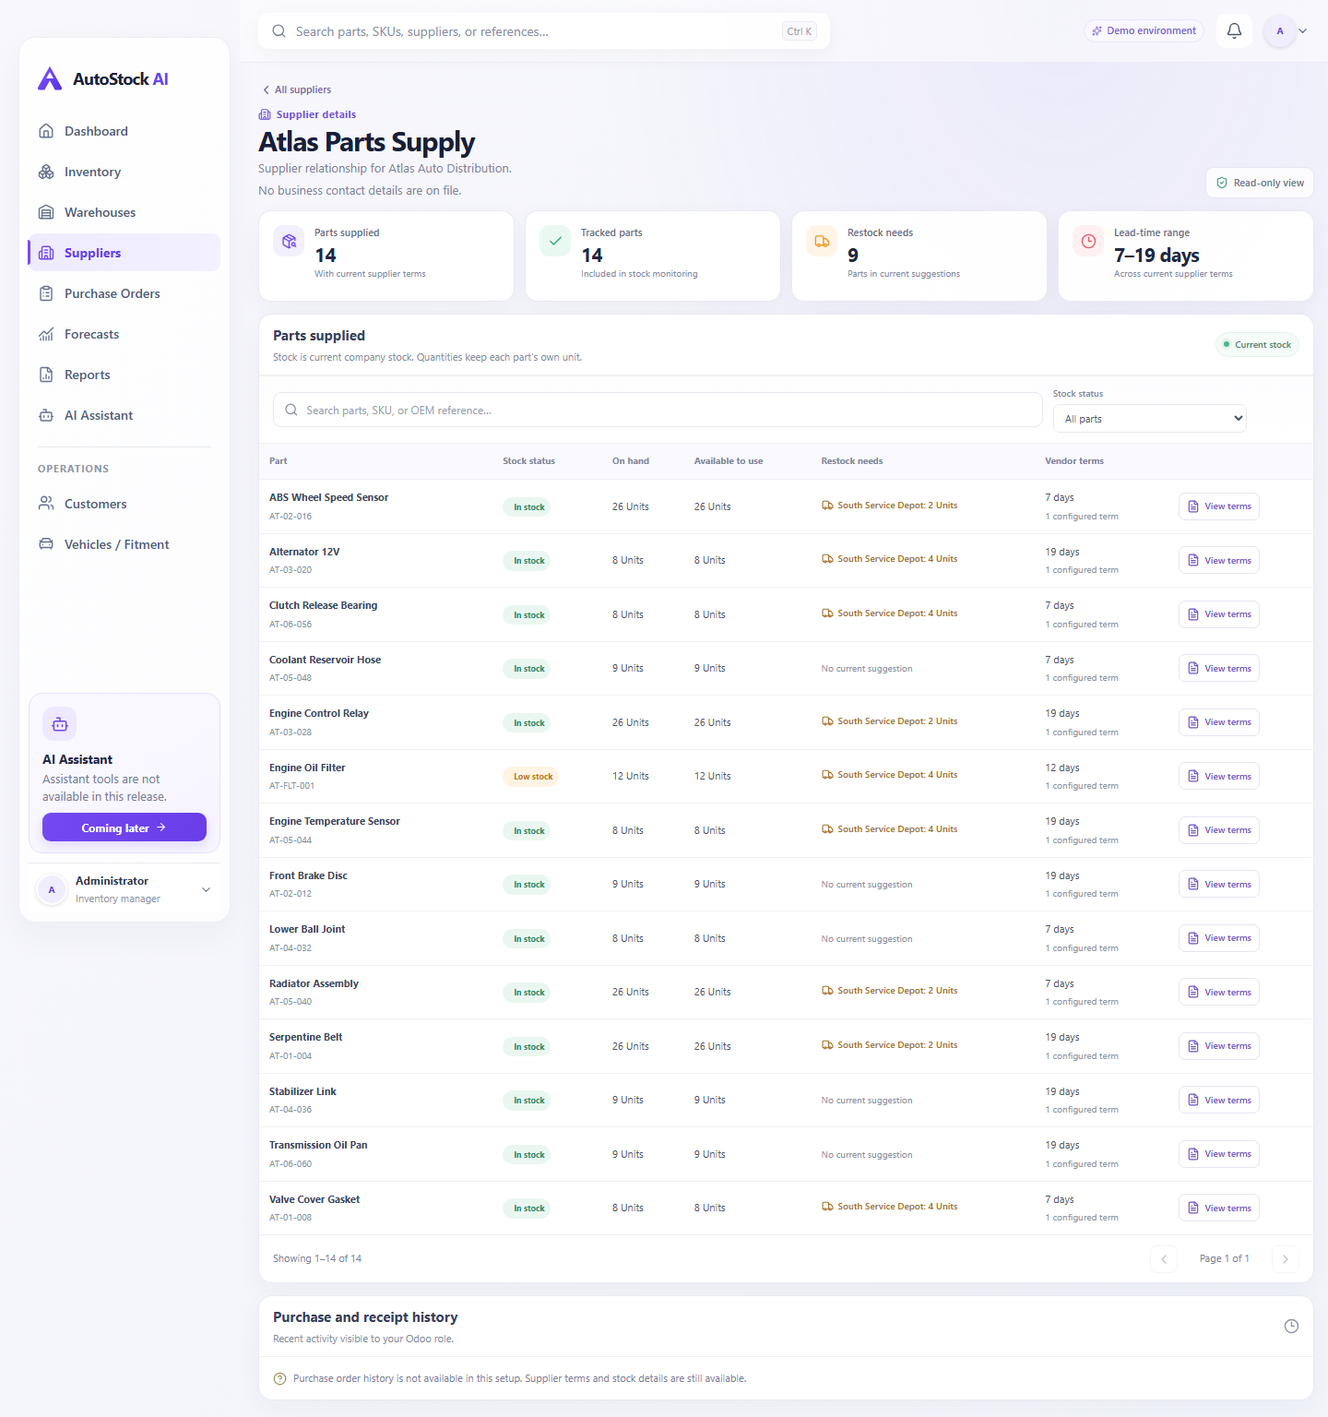
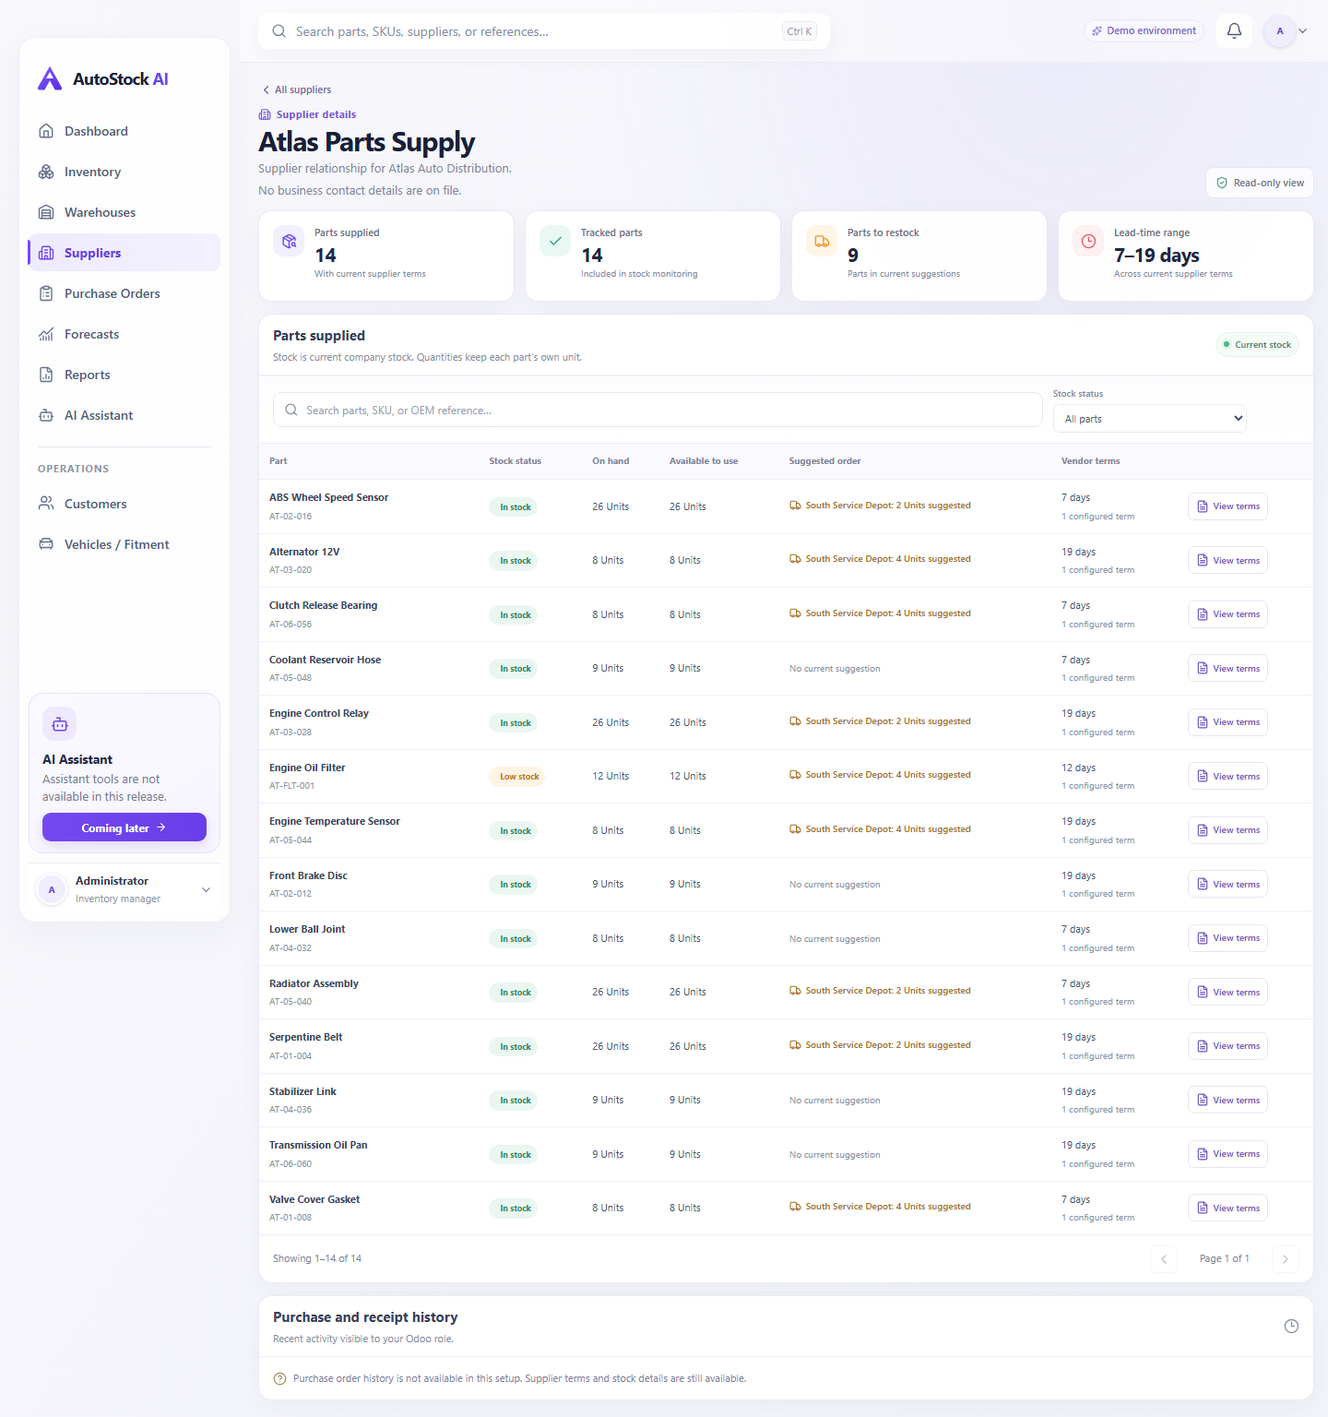
Polish supplier restock wording

diff --git a/frontend/src/routes/suppliers.tsx b/frontend/src/routes/suppliers.tsx
@@ -104,7 +104,7 @@ function SupplierListCard({ row }: { row: SupplierRow }) {
     </div>
     <div className="supplier-card-metrics">
       <span><small>Parts</small><strong>{count(row.active_parts)}</strong></span>
-      <span><small>Low / out</small><strong>{count(row.low_or_out_parts)}</strong></span>
+      <span><small>Low / out of stock</small><strong>{count(row.low_or_out_parts)}</strong></span>
       <span><small>Lead time</small><strong>{leadRangeText(row)}</strong></span>
       <span><small>Supplier terms</small><strong>{count(row.active_terms)}</strong></span>
     </div>
@@ -141,7 +141,7 @@ function SupplierOverview({ companyId, session, onSwitchCompany, onSignOut }: Wo
   return <SupplierWorkspace workspace={{ session, companyId, onSwitchCompany, onSignOut }} activeSection="suppliers" selectedProduct={selectedProduct} onSelectProduct={setSelectedProduct}>
     <main className="page-content inventory-page supplier-page">
       <div className="page-heading inventory-page-heading supplier-page-heading">
-        <div><div className="inventory-eyebrow"><Building2 size={14} aria-hidden="true" /> Supplier relationships</div><h1>Suppliers</h1><p>See who supplies your parts, the terms you have on file, and suppliers connected to current restock needs at {company.name}.</p></div>
+        <div><div className="inventory-eyebrow"><Building2 size={14} aria-hidden="true" /> Supplier relationships</div><h1>Suppliers</h1><p>See who supplies your parts, the terms you have on file, and suppliers connected to parts currently suggested for restocking at {company.name}.</p></div>
         <div className="supplier-heading-actions"><Link to="/suppliers/missing" className="supplier-primary-link"><PackageSearch size={15} aria-hidden="true" />Parts without a supplier</Link><span className="warehouse-readonly-mark"><ShieldCheck size={14} aria-hidden="true" /> Read-only view</span></div>
       </div>
       {suppliers.isError && !suppliers.data ? <SupplierError error={suppliers.error} onRetry={() => void suppliers.refetch()} /> : suppliers.isPending && !suppliers.data ? <SupplierLoading /> : suppliers.data ? <>
@@ -151,14 +151,14 @@ function SupplierOverview({ companyId, session, onSwitchCompany, onSignOut }: Wo
           <div className="supplier-filter-area">
             <label className="inventory-search-field"><Search size={16} aria-hidden="true" /><span className="sr-only">Search suppliers by name or vendor code</span><input value={query} onChange={(event) => { setQuery(event.target.value); setPage(1) }} placeholder="Search supplier name or vendor code…" type="search" autoComplete="off" />{query && <button type="button" aria-label="Clear supplier search" onClick={() => { setQuery(''); setPage(1) }}>Clear</button>}</label>
             <div className="supplier-filters">
-              <label className="inventory-select-wrap"><span>Current needs</span><select aria-label="Filter suppliers by reorder needs" value={attention} onChange={(event) => { setAttention(event.target.value as SupplierRequest['attention']); setPage(1) }}><option value="all">All suppliers</option><option value="reorder">With restock needs</option></select></label>
-              <label className="inventory-select-wrap"><span>Part terms</span><select aria-label="Filter suppliers by active terms" value={terms} onChange={(event) => { setTerms(event.target.value as SupplierRequest['terms']); setPage(1) }}><option value="all">All terms</option><option value="active">Active terms</option><option value="none">No active terms</option></select></label>
-              <label className="inventory-select-wrap"><span>Sort by</span><select aria-label="Sort suppliers by" value={sort} onChange={(event) => { setSort(event.target.value as SupplierRequest['sort']); setPage(1) }}><option value="name">Name</option><option value="reorder">Restock needs</option><option value="parts">Parts supplied</option><option value="lead_time">Lead time</option></select></label>
+              <label className="inventory-select-wrap"><span>Current needs</span><select aria-label="Filter suppliers by parts to restock" value={attention} onChange={(event) => { setAttention(event.target.value as SupplierRequest['attention']); setPage(1) }}><option value="all">All suppliers</option><option value="reorder">With parts to restock</option></select></label>
+              <label className="inventory-select-wrap"><span>Supplier terms</span><select aria-label="Filter suppliers by active terms" value={terms} onChange={(event) => { setTerms(event.target.value as SupplierRequest['terms']); setPage(1) }}><option value="all">All terms</option><option value="active">Active terms</option><option value="none">No active terms</option></select></label>
+              <label className="inventory-select-wrap"><span>Sort by</span><select aria-label="Sort suppliers by" value={sort} onChange={(event) => { setSort(event.target.value as SupplierRequest['sort']); setPage(1) }}><option value="name">Name</option><option value="reorder">Parts to restock</option><option value="parts">Parts supplied</option><option value="lead_time">Lead time</option></select></label>
               <button className="supplier-direction" type="button" aria-label={`Sort ${direction === 'asc' ? 'descending' : 'ascending'}`} onClick={() => { setDirection((value) => value === 'asc' ? 'desc' : 'asc'); setPage(1) }}>{direction === 'asc' ? <ArrowUp size={15} /> : <ArrowDown size={15} />}</button>
             </div>
           </div>
           {suppliers.data.suppliers.length ? <>
-            <div className="supplier-table-wrap"><table className="supplier-table"><thead><tr><th>Supplier</th><th>Parts supplied</th><th>Low / out</th><th>Current restock needs</th><th>Lead-time range</th><th>Active terms</th><th><span className="sr-only">Details</span></th></tr></thead><tbody>{suppliers.data.suppliers.map((row) => <tr key={row.id}>
+            <div className="supplier-table-wrap"><table className="supplier-table"><thead><tr><th>Supplier</th><th>Parts supplied</th><th>Low / out of stock</th><th>Parts to restock</th><th>Lead-time range</th><th>Active terms</th><th><span className="sr-only">Details</span></th></tr></thead><tbody>{suppliers.data.suppliers.map((row) => <tr key={row.id}>
               <td><Link to="/suppliers/$supplierId" params={{ supplierId: String(row.id) }} className="supplier-table-name"><span className="supplier-table-icon"><Building2 size={16} aria-hidden="true" /></span><span><strong>{row.name}</strong><small>{row.vendor_code ? `Vendor code ${row.vendor_code}` : row.city || 'Supplier'}</small></span></Link></td>
               <td>{count(row.active_parts)} <small>parts</small></td><td>{count(row.low_or_out_parts)}</td><td><SupplierStatus row={row} /></td><td>{leadRangeText(row)}</td><td>{count(row.active_terms)} <small>terms</small></td><td><Link to="/suppliers/$supplierId" params={{ supplierId: String(row.id) }} className="supplier-open-link">Details <ChevronRight size={14} /></Link></td>
             </tr>)}</tbody></table></div>
@@ -186,7 +186,7 @@ function ReorderContext({ item }: { item: SupplierPart }) {
   if (!item.reorder_parts) return <span className="supplier-reorder-none">No current suggestion</span>
   const first = item.reorder_locations[0]
   if (!first) return <span className="supplier-reorder-unknown"><CircleHelp size={13} aria-hidden="true" />Suggestion details unavailable</span>
-  return <span className="supplier-reorder-chip"><Truck size={13} aria-hidden="true" />{first.warehouse}: {quantity(first.quantity, first.uom)}{item.reorder_locations.length > 1 ? ` +${item.reorder_locations.length - 1} locations` : ''}</span>
+  return <span className="supplier-reorder-chip"><Truck size={13} aria-hidden="true" />{first.warehouse}: {quantity(first.quantity, first.uom)} suggested{item.reorder_locations.length > 1 ? ` +${item.reorder_locations.length - 1} locations` : ''}</span>
 }
 
 function SupplierPartCard({ item, onOpenProduct, onOpenTerms }: { item: SupplierPart; onOpenProduct: () => void; onOpenTerms: () => void }) {
@@ -244,7 +244,7 @@ function SupplierPartTable({ companyId, supplierId, query, setQuery, status, set
         <label className="inventory-select-wrap"><span>Stock status</span><select aria-label="Filter supplier parts by stock status" value={status} onChange={(event) => { setStatus(event.target.value as PartStatus); setPage(1) }}><option value="all">All parts</option><option value="in_stock">In stock</option><option value="low_stock">Low stock</option><option value="out_of_stock">Out of stock</option></select></label>
       </div>
       {partsQuery.isError && !data ? <SupplierError error={partsQuery.error} detail onRetry={() => void partsQuery.refetch()} /> : partsQuery.isPending && !data ? <div className="supplier-part-loading" role="status">Loading supplied parts…</div> : data?.items.length ? <>
-        <div className="supplier-part-table-wrap"><table className="supplier-part-table"><thead><tr><th>Part</th><th>Stock status</th><th>On hand</th><th>Available to use</th><th>Restock needs</th><th>Vendor terms</th><th><span className="sr-only">Part actions</span></th></tr></thead><tbody>{data.items.map((item) => <tr key={item.product_id}>
+        <div className="supplier-part-table-wrap"><table className="supplier-part-table"><thead><tr><th>Part</th><th>Stock status</th><th>On hand</th><th>Available to use</th><th>Suggested order</th><th>Vendor terms</th><th><span className="sr-only">Part actions</span></th></tr></thead><tbody>{data.items.map((item) => <tr key={item.product_id}>
           <td><button className="supplier-part-name" type="button" onClick={() => onSelectProduct(productStub(item))}><strong>{item.name}</strong><small>{item.sku}{item.reference ? ` · ${item.reference}` : ''}</small></button></td><td><StockStatus status={item.status} /></td><td>{quantity(item.on_hand, item.uom)}</td><td>{quantity(item.available, item.uom)}</td><td><ReorderContext item={item} /></td><td>{leadRange(item.lead_time_min_days, item.lead_time_max_days)}<small className="supplier-part-terms-count">{item.supplier_terms_count} configured term{item.supplier_terms_count === 1 ? '' : 's'}</small></td><td><button className="supplier-terms-button" type="button" onClick={() => setTermsProduct(productStub(item))}><FileText size={14} aria-hidden="true" />View terms</button></td>
         </tr>)}</tbody></table></div>
         <div className="supplier-part-mobile-list">{data.items.map((item) => <SupplierPartCard key={item.product_id} item={item} onOpenProduct={() => onSelectProduct(productStub(item))} onOpenTerms={() => setTermsProduct(productStub(item))} />)}</div>
@@ -285,7 +285,7 @@ function SupplierDetail({ supplierId, companyId, session, onSwitchCompany, onSig
         <div className="inventory-summary-grid supplier-detail-metrics" aria-label="Supplier summary">
           <article className="inventory-summary-card tone-violet"><span className="inventory-summary-icon"><PackageSearch size={17} /></span><div className="inventory-summary-copy"><span>Parts supplied</span><strong>{count(summary.active_parts)}</strong><small>With current supplier terms</small></div></article>
           <article className="inventory-summary-card tone-green"><span className="inventory-summary-icon"><Check size={17} /></span><div className="inventory-summary-copy"><span>Tracked parts</span><strong>{count(summary.tracked_parts)}</strong><small>Included in stock monitoring</small></div></article>
-          <article className="inventory-summary-card tone-amber"><span className="inventory-summary-icon"><Truck size={17} /></span><div className="inventory-summary-copy"><span>Restock needs</span><strong>{count(summary.reorder_parts)}</strong><small>Parts in current suggestions</small></div></article>
+          <article className="inventory-summary-card tone-amber"><span className="inventory-summary-icon"><Truck size={17} /></span><div className="inventory-summary-copy"><span>Parts to restock</span><strong>{count(summary.reorder_parts)}</strong><small>Parts in current suggestions</small></div></article>
           <article className="inventory-summary-card tone-red"><span className="inventory-summary-icon"><Clock3 size={17} /></span><div className="inventory-summary-copy"><span>Lead-time range</span><strong>{leadRangeText(summary)}</strong><small>Across current supplier terms</small></div></article>
         </div>
         {!detail.data.coverage.reorder_complete && <p className="inventory-summary-caveat" role="note"><CircleHelp size={14} aria-hidden="true" />Restock links are incomplete because the company stock scan reached its safe review limit.</p>}
@@ -321,7 +321,7 @@ function MissingSupplierParts({ companyId, session, onSwitchCompany, onSignOut }
             <label className="inventory-select-wrap"><span>Stock status</span><select aria-label="Filter parts without a supplier by stock status" value={status} onChange={(event) => { setStatus(event.target.value as PartStatus); setPage(1) }}><option value="all">All parts</option><option value="in_stock">In stock</option><option value="low_stock">Low stock</option><option value="out_of_stock">Out of stock</option></select></label>
           </div>
           {parts.data.items.length ? <>
-            <div className="supplier-part-table-wrap"><table className="supplier-part-table supplier-gaps-table"><thead><tr><th>Part</th><th>Stock status</th><th>On hand</th><th>Available to use</th><th>Restock needs</th><th>Supplier terms</th><th><span className="sr-only">Part details</span></th></tr></thead><tbody>{parts.data.items.map((item) => <tr key={item.product_id}><td><button className="supplier-part-name" type="button" onClick={() => setSelectedProduct(stub(item))}><strong>{item.name}</strong><small>{item.sku}{item.reference ? ` · ${item.reference}` : ''}</small></button></td><td><StockStatus status={item.status} /></td><td>{quantity(item.on_hand, item.uom)}</td><td>{quantity(item.available, item.uom)}</td><td><ReorderContext item={item} /></td><td><span className="supplier-missing-pill">No supplier on file</span></td><td><button className="supplier-open-link" type="button" onClick={() => setSelectedProduct(stub(item))}>View part <ChevronRight size={14} /></button></td></tr>)}</tbody></table></div>
+            <div className="supplier-part-table-wrap"><table className="supplier-part-table supplier-gaps-table"><thead><tr><th>Part</th><th>Stock status</th><th>On hand</th><th>Available to use</th><th>Suggested order</th><th>Supplier terms</th><th><span className="sr-only">Part details</span></th></tr></thead><tbody>{parts.data.items.map((item) => <tr key={item.product_id}><td><button className="supplier-part-name" type="button" onClick={() => setSelectedProduct(stub(item))}><strong>{item.name}</strong><small>{item.sku}{item.reference ? ` · ${item.reference}` : ''}</small></button></td><td><StockStatus status={item.status} /></td><td>{quantity(item.on_hand, item.uom)}</td><td>{quantity(item.available, item.uom)}</td><td><ReorderContext item={item} /></td><td><span className="supplier-missing-pill">No supplier on file</span></td><td><button className="supplier-open-link" type="button" onClick={() => setSelectedProduct(stub(item))}>View part <ChevronRight size={14} /></button></td></tr>)}</tbody></table></div>
             <div className="supplier-part-mobile-list">{parts.data.items.map((item) => <article className="supplier-part-card" key={item.product_id}><div className="supplier-part-card-heading"><button className="supplier-part-name" type="button" onClick={() => setSelectedProduct(stub(item))}><strong>{item.name}</strong><small>{item.sku}{item.reference ? ` · ${item.reference}` : ''}</small></button><StockStatus status={item.status} /></div><div className="supplier-part-card-values"><span><small>On hand</small><strong>{quantity(item.on_hand, item.uom)}</strong></span><span><small>Available to use</small><strong>{quantity(item.available, item.uom)}</strong></span></div><div className="supplier-part-card-foot"><ReorderContext item={item} /><span className="supplier-missing-pill">No supplier on file</span></div></article>)}</div>
             {!parts.data.coverage.reorder_complete && <p className="inventory-summary-caveat supplier-parts-caveat" role="note"><CircleHelp size={14} aria-hidden="true" />Restock suggestions are incomplete because the company stock scan reached its safe review limit.</p>}
             <SupplierPagination page={parts.data.pagination.page} pageSize={parts.data.pagination.page_size} totalPages={parts.data.pagination.total_pages} totalCount={parts.data.pagination.total_count} hasPrevious={parts.data.pagination.has_previous} hasNext={parts.data.pagination.has_next} onPage={setPage} />

diff --git a/frontend/tests/browser/suppliers.spec.ts b/frontend/tests/browser/suppliers.spec.ts
@@ -118,15 +118,20 @@ test('Suppliers search, filters, pagination, and navigation stay readable withou
     const overflow = await page.evaluate(() => document.documentElement.scrollWidth > document.documentElement.clientWidth)
     expect(overflow).toBe(false)
   }
+  await page.setViewportSize({ width: 1440, height: 1000 })
+  await expect(page.getByRole('columnheader', { name: 'Low / out of stock' })).toBeVisible()
+  await expect(page.getByRole('columnheader', { name: 'Parts to restock' })).toBeVisible()
+  await expect(page.locator('.supplier-filters label').filter({ hasText: 'Supplier terms' })).toBeVisible()
+  await expect(page.getByRole('combobox', { name: 'Sort suppliers by' }).locator('option[value="reorder"]')).toHaveText('Parts to restock')
   await page.getByRole('searchbox', { name: 'Search suppliers by name or vendor code' }).fill('V-001')
   await expect.poll(() => requests.some((request) => request.searchParams.get('q') === 'V-001')).toBe(true)
   await expect(page.getByRole('link', { name: /Northline Auto Supply/ }).first()).toBeVisible()
   await expect(page.locator('.supplier-summary-grid .inventory-summary-card').filter({ hasText: 'Active suppliers' }).locator('strong')).toHaveText('13')
-  await page.getByRole('combobox', { name: 'Filter suppliers by reorder needs' }).selectOption('reorder')
+  await page.getByRole('combobox', { name: 'Filter suppliers by parts to restock' }).selectOption('reorder')
   await expect.poll(() => requests.some((request) => request.searchParams.get('attention') === 'reorder')).toBe(true)
   await page.getByRole('searchbox', { name: 'Search suppliers by name or vendor code' }).fill('')
   await expect.poll(() => requests.some((request) => !request.searchParams.get('q'))).toBe(true)
-  await page.getByRole('combobox', { name: 'Filter suppliers by reorder needs' }).selectOption('all')
+  await page.getByRole('combobox', { name: 'Filter suppliers by parts to restock' }).selectOption('all')
   await expect.poll(() => requests.some((request) => request.searchParams.get('attention') === 'all')).toBe(true)
   await page.getByRole('button', { name: 'Next page' }).click()
   await expect.poll(() => requests.some((request) => request.searchParams.get('page') === '2')).toBe(true)
@@ -150,11 +155,14 @@ test('supplier detail explains restock context and preserves every currency and 
   await page.goto('/suppliers/21')
   await expect(page.getByRole('heading', { name: 'Northline Auto Supply', exact: true })).toBeVisible()
   await expect(page.getByText(/Purchase order history is not available in this setup/)).toBeVisible()
-  await expect(page.getByText(/Central Parts Warehouse: 6 Units/).first()).toBeVisible()
+  await expect(page.getByRole('columnheader', { name: 'Suggested order' })).toBeVisible()
+  await expect(page.locator('.supplier-detail-metrics .inventory-summary-copy').filter({ hasText: 'Parts to restock' })).toBeVisible()
+  await expect(page.getByText(/Central Parts Warehouse: 6 Units suggested/).first()).toBeVisible()
   for (const [width, height] of [[1440, 1000], [1024, 900], [390, 844]]) {
     await page.setViewportSize({ width, height })
     expect(await page.evaluate(() => document.documentElement.scrollWidth > document.documentElement.clientWidth)).toBe(false)
   }
+  await expect(page.locator('.supplier-part-mobile-list').filter({ hasText: 'Central Parts Warehouse: 6 Units suggested' })).toBeVisible()
   await page.getByRole('button', { name: /View terms/ }).first().click()
   await expect(page.getByText('DH 1,450.00 MAD')).toBeVisible()
   await expect(page.getByText('$ 129.00 USD')).toBeVisible()
@@ -176,6 +184,8 @@ test('Parts without a supplier is a truthful, searchable, paged view', async ({ 
   })
   await page.goto('/suppliers/missing')
   await expect(page.getByRole('heading', { name: 'Parts without a supplier', exact: true })).toBeVisible()
+  await expect(page.getByRole('columnheader', { name: 'Suggested order' })).toBeVisible()
+  await expect(page.getByText(/Central Parts Warehouse: 6 Units suggested/).first()).toBeVisible()
   await expect(page.getByText('No supplier on file', { exact: true }).first()).toBeVisible()
   await page.getByRole('searchbox', { name: 'Search parts without a supplier' }).fill('ALT-1001')
   await expect.poll(() => requests.some((request) => request.searchParams.get('q') === 'ALT-1001')).toBe(true)

diff --git a/docs/qa/issue-32-gate-6.md b/docs/qa/issue-32-gate-6.md
@@ -23,7 +23,7 @@ The captures below came from the running Atlas Auto Distribution Odoo showroom u
 | Parts without a supplier | 1024 px tablet | [supplier-gaps-1024.png](screenshots/issue-32-gate-6/supplier-gaps-1024.png) |
 | Parts without a supplier | 390 px mobile | [supplier-gaps-390.png](screenshots/issue-32-gate-6/supplier-gaps-390.png) |
 
-Playwright checked for horizontal overflow at every captured viewport. The capture run made live supplier-name and reorder-attention requests plus a supplier-part SKU search, then reported zero page errors, zero browser console errors, and zero failed AutoStock API responses. The company-wide Active suppliers KPI remained four while both supplier-name search and reorder-attention filtering narrowed the visible list. The missing-supplier page was captured after its live response rendered four matching parts. There are 14 screenshots total.
+Playwright checked for horizontal overflow at every captured viewport. The capture run made live supplier-name and reorder-attention requests plus a supplier-part SKU search, then reported zero page errors, zero browser console errors, and zero failed AutoStock API responses. The company-wide Active suppliers KPI remained four while both supplier-name search and reorder-attention filtering narrowed the visible list. The missing-supplier page was captured after its live response rendered four matching parts. There are 14 screenshots total. All 14 were refreshed after the wording review to show “Low / out of stock,” “Parts to restock,” “Suggested order,” explicit suggested quantities and units, and “Supplier terms.”
 
 ## Checks
 
